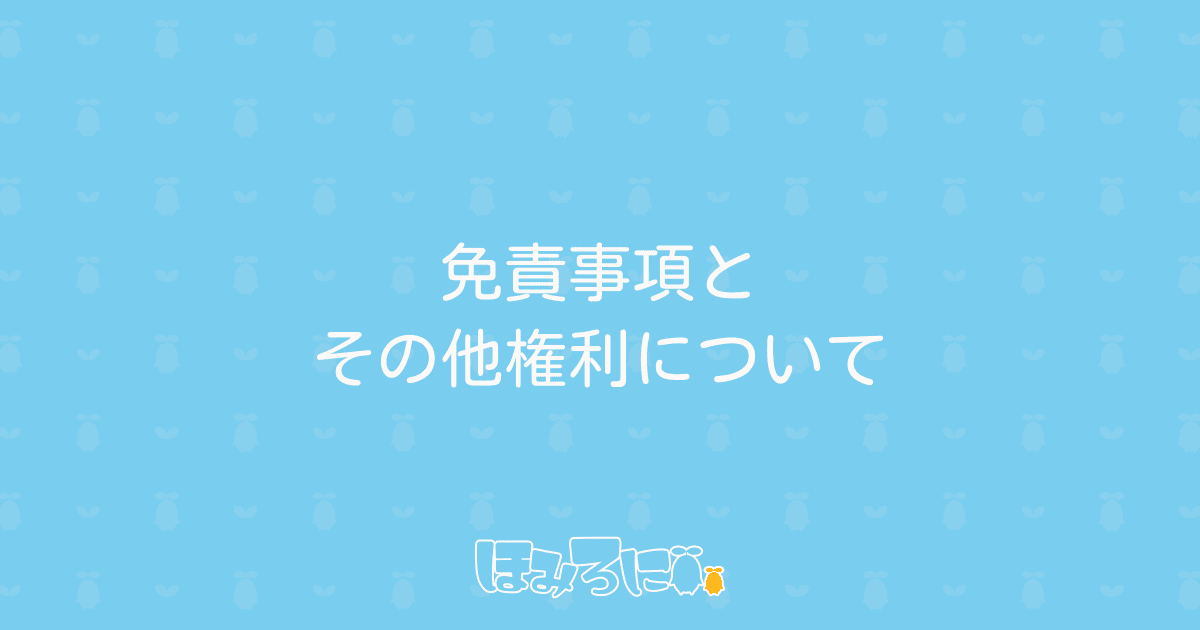
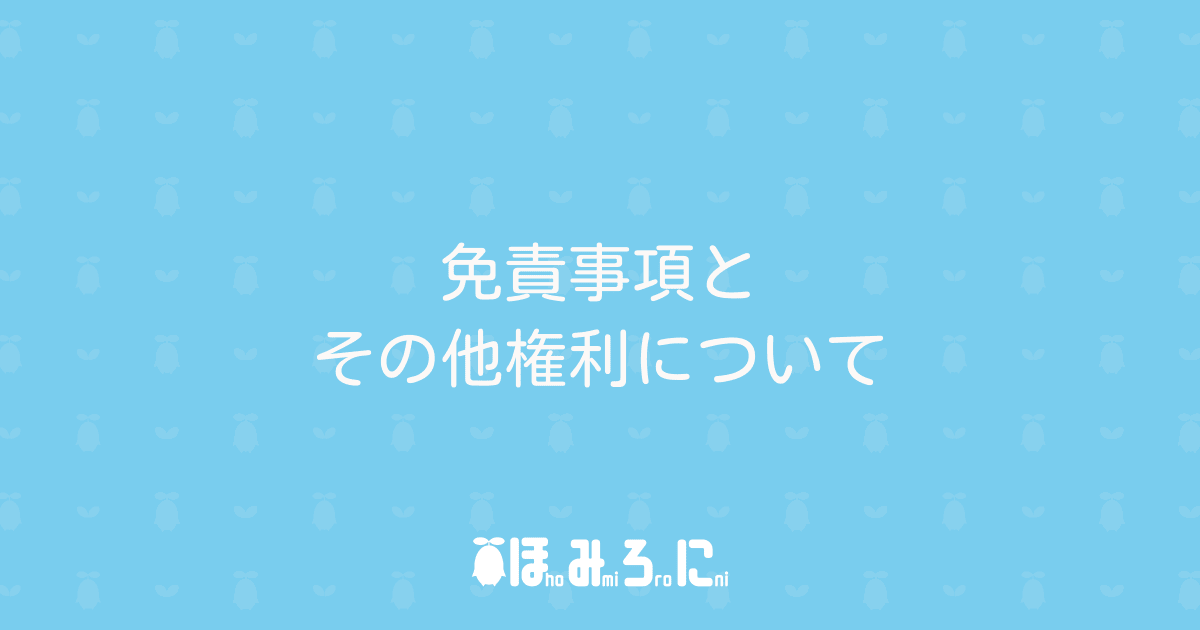
[update] 画像内のロゴも更新

Changed region(s): [[0.37, 0.8444, 0.6167, 0.9651]]

diff --git a/_contents/articles/20250525201956.md b/_contents/articles/20250525201956.md
@@ -7,7 +7,7 @@ publishDate: 2023-12-21T00:00:00.000+09:00
 lastModDate: 2024-08-27T00:00:00.000+09:00
 draft: false
 category: 開発系その他
-thumbnail: /images/header/categories/developOther/1.webp
+thumbnail: /images/header/articles/sdky27mklh0qz2c4nput34n1.webp
 ---
 
 マークダウンの書き方を忘れてしまうことが多く、いつも調べている……。

diff --git a/_contents/articles/20250525201957.md b/_contents/articles/20250525201957.md
@@ -8,7 +8,7 @@ publishDate: 2024-02-16T00:00:00.000+09:00
 lastModDate: 2024-02-16T00:00:00.000+09:00
 draft: false
 category: 開発系その他
-thumbnail: /images/header/categories/developOther/2.webp
+thumbnail: /images/header/articles/t4qf2vp9yl42yilfihryxee7.webp
 ---
 
 -   Doxygen でお手軽にドキュメントを生成したい！

diff --git a/_contents/articles/20250525201951.md b/_contents/articles/20250525201951.md
@@ -10,7 +10,7 @@ draft: false
 category: ゲーム開発
 tags:
   - UnrealEngine
-thumbnail: /images/header/categories/developGame/0.webp
+thumbnail: /images/header/articles/y9gwahvcxi4fkbq52ws3a5q6.webp
 ---
 
 ゲームをビルドした際の表示名などを変更する箇所を確認したかったので、  

diff --git a/_contents/articles/20250525201955.md b/_contents/articles/20250525201955.md
@@ -10,7 +10,7 @@ draft: false
 category: 開発系その他
 tags:
   - GitHubActions
-thumbnail: /images/header/categories/developOther/0.webp
+thumbnail: /images/header/articles/teuoslm5qrtzhh4lqkqlm34a.webp
 ---
 
 タイトル通りですが、本記事では以下の内容をメモしていきます。

diff --git a/_contents/articles/20250525161137.md b/_contents/articles/20250525161137.md
@@ -6,7 +6,7 @@ publishDate: 2023-08-23T00:00:00.000+09:00
 lastModDate: 2023-08-27T00:00:00.000+09:00
 draft: false
 category: 雑記
-thumbnail: /images/header/categories/memo/0.webp
+thumbnail: /images/header/articles/qnhckrrtrx8xv662s0ox840y.webp
 ---
 
 ## サイト開設！

diff --git a/_contents/articles/20250525184105.md b/_contents/articles/20250525184105.md
@@ -8,7 +8,7 @@ publishDate: 2025-03-26T00:00:00.000+09:00
 lastModDate: 2025-03-26T00:00:00.000+09:00
 draft: false
 category: 雑記
-thumbnail: /images/header/categories/memo/2.webp
+thumbnail: /images/header/articles/myunaxoc7w88tb3shu04jo0k.webp
 ---
 
 ## 真っ先に結論

diff --git a/_contents/articles/20250525182643.md b/_contents/articles/20250525182643.md
@@ -8,7 +8,7 @@ publishDate: 2024-08-24T00:00:00.000+09:00
 lastModDate: 2024-08-27T00:00:00.000+09:00
 draft: false
 category: 雑記
-thumbnail: /images/header/categories/memo/1.webp
+thumbnail: /images/header/articles/63wh6phn350glrerg3fq7u31.webp
 ---
 
 ## できること

diff --git a/_contents/articles/20250525202001.md b/_contents/articles/20250525202001.md
@@ -9,7 +9,7 @@ draft: false
 category: Web制作
 tags:
   - CSS
-thumbnail: /images/header/categories/makeWeb/2.webp
+thumbnail: /images/header/articles/fdjs9rs2bn7ugq9rf8ysa28h.webp
 ---
 
 css では主に見た目の部分を調整することができます。

diff --git a/_contents/articles/20250525202005.md b/_contents/articles/20250525202005.md
@@ -12,7 +12,7 @@ category: Web制作
 tags:
   - Vercel
   - FirebaseAuthentication
-thumbnail: /images/header/categories/makeWeb/6.webp
+thumbnail: /images/header/articles/gerhmam3hcmi9lbrgs3frm11.webp
 ---
 
 ## はじめに

diff --git a/_contents/articles/20250525201953.md b/_contents/articles/20250525201953.md
@@ -10,7 +10,7 @@ draft: false
 category: ゲーム開発
 tags:
   - Unity
-thumbnail: /images/header/categories/developGame/2.webp
+thumbnail: /images/header/articles/oxisarp8rwfqng1x7737y2pw.webp
 ---
 
 ## はじめに

diff --git a/_contents/articles/20250525201958.md b/_contents/articles/20250525201958.md
@@ -8,7 +8,7 @@ draft: false
 category: 開発系その他
 tags:
   - WPF
-thumbnail: /images/header/categories/developOther/3.webp
+thumbnail: /images/header/articles/6crtf6b55vez6cjwlkmcxmww.webp
 ---
 
 ## はじめに

diff --git a/_contents/articles/20250525201952.md b/_contents/articles/20250525201952.md
@@ -8,7 +8,7 @@ draft: false
 category: ゲーム開発
 tags:
   - Unity
-thumbnail: /images/header/categories/developGame/1.webp
+thumbnail: /images/header/articles/7fbf31ehamqsdas2g6gwyr7c.webp
 ---
 
 ## はじめに
